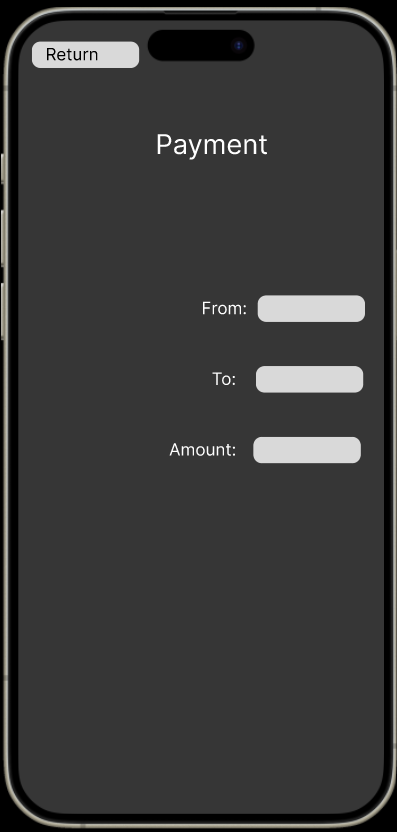
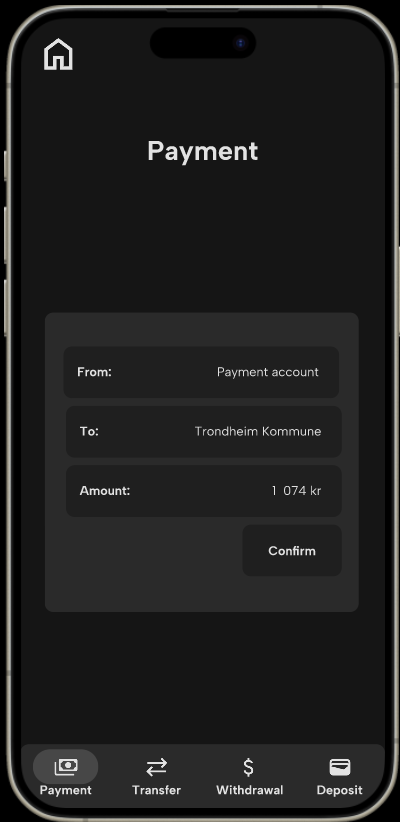
docs(parent): update readme and architecture
Updated readme file to reflect new features. Added package diagram. Added new figma mockups and icons for app.

Co-authored by: Kasper

diff --git a/bank/readme.md b/bank/readme.md
@@ -4,21 +4,32 @@ Dette er en app som skal gjøre det lett for brukere å få oversikt over bankko
 
 ## Innlogging og registrering
 <img src="../resources/login.png" width="150"/>
-<img src="../resources/register.png" width="150"/>
+<img src="../resources/createUser.png" width="150"/>
 
-Eksisterede brukere kan enkelt logge inn med fødselsummer og passord for å få tilgang til sine kontoer. Dersom man er ny bruker kan man enkelt registrere seg i appen. 
+Eksisterede brukere kan enkelt logge inn med fødselsummer og passord for å få tilgang til sine kontoer. Dersom man er ny bruker kan man enkelt registrere seg i appen. Tilbake-knappen tar brukeren tilbake til startskjermen. Denne knappen er dynamisk og vil ha ulik funksjon og ikon avhengig av hvor man er i appen. 
 
-## Oversikt
+## Oversikt og kontoer
 <img src="../resources/overview.png" width="150"/>
+<img src="../resources/newAccount.png" width="150"/>
 
-Etter innlogging får brukerne en oversikt over sine kontoer og saldoen på dem, slik at de alltid har kontroll over sin økonomi.
+Etter innlogging får brukerne en oversikt over sine kontoer og saldoen på dem, slik at de alltid har kontroll over sin økonomi. 
 
-## Overføring
+I menyen nederst kan brukeren velge mellom betaling, overføring, uttak og innskudd. 
+
+Øverst i venstre hjørnet er det en knapp for å logge ut. Knappen vil endres til en tilbake-knapp eller hjem-knapp dersom brukeren har navigert seg videre. 
+
+
+## Betaling og overføring
 <img src="../resources/transfer.png" width="150"/>
+<img src="../resources/payment.png" width="150"/>
 
 Brukerne kan enkelt overføre penger mellom sine egne kontoer. 
 
-## Returnerende bruker
-<img src="../resources/payment.png" width="150"/>
+Appen støtter også betaling av regninger og andre utgifter direkte fra brukernes kontoer, slik at betalinger kan gjøres raskt og enkelt.
 
-Appen støtter betaling av regninger og andre utgifter direkte fra brukernes kontoer, slik at betalinger kan gjøres raskt og enkelt.
+## Uttak og innskudd
+<img src="../resources/deposit.png" width="150"/>
+<img src="../resources/withdrawal.png" width="150"/>
+
+Brukeren kan også registrere innskudd til konto eller uttak fra konto i appen. 
+

diff --git a/brukerhistorier.md b/brukerhistorier.md
@@ -1,6 +1,6 @@
 # Brukerhistorier
 
-## Ny kunde
+## Ny kunde (us-1)
 
 Som privatperson ønsker jeg å etablere et nytt kundeforhold med banken. 
 
@@ -15,17 +15,17 @@ Brukeren er ikke en allerede eksisterende kunde av banken og ønsker derfor å r
 - logge inn på allerede eksisterende bruker
 
 
-## Ny brukskonto og sparekonto
+## Ny brukskonto og sparekonto (us-2)
 
 Jeg ønsker nå å kunne ha en måte å holde styr på pengene mine
 
-Brukeren har allerede registrert seg som bruker og ønsker nå å kunne opprette en sparekonto og en brukskonto med navn og saldo, som brukeren enkelt kan finne fram til senere. Det er viktig at brukeren kan både ta ut og legge inn penger til kontoene
+Brukeren har allerede registrert seg som bruker og ønsker nå å kunne opprette en sparekonto og en brukskonto med navn, som brukeren enkelt kan finne fram til senere. Det er viktig at brukeren kan både ta ut og legge inn penger til kontoene.
 
-## Viktig å kunne se:
+### Viktig å kunne se:
 - knapp for å lage ny spare-/brukskonto
 - oversikt over allerede eksisterende spare-/brukskontoer
+- knapp for innskudd og uttak
 
-## Viktig å kunne gjøre:
+### Viktig å kunne gjøre:
 - registrere ny spare-/brukskonto
-- kunne trykke på en allerede eksisterende konto
-- kunne legge til eller ta ut penger fra en allerede eksisterende konto
+- kunne legge inn eller ta ut penger fra en allerede eksisterende konto
